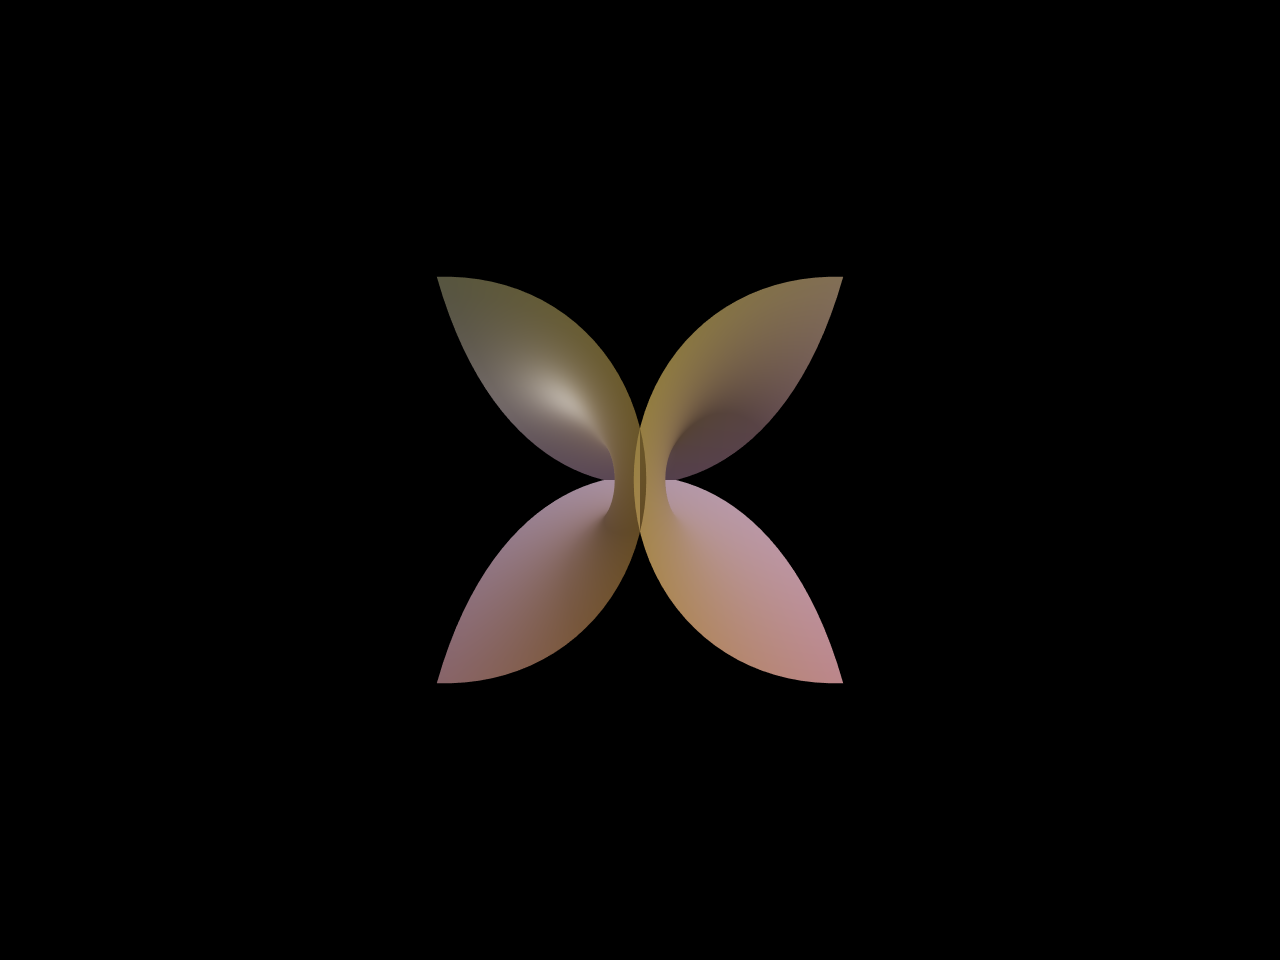
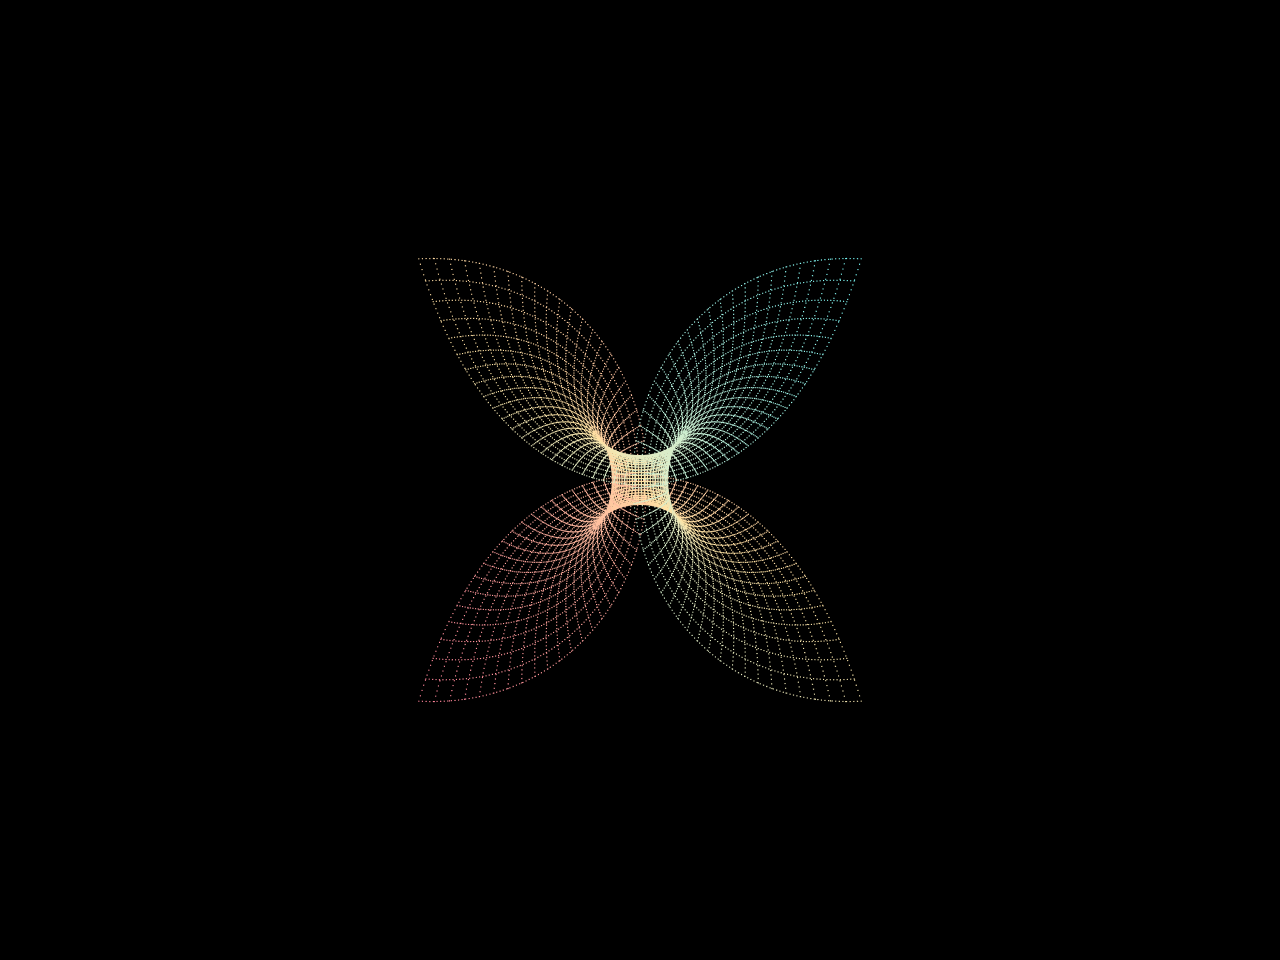
Convert Enneper surface to UV isoline particle wire.

Changed region(s): [[0.3438, 0.2812, 0.6562, 0.7188]]

diff --git a/packages/frontend/src/utils/enneperSurface.ts b/packages/frontend/src/utils/enneperSurface.ts
@@ -1,9 +1,15 @@
 const EPS = 1e-15
+const TARGET_R = 1.7
 
-export const UV_RES = 48
 export const SPAN_MIN = 1.2
 export const SPAN_MAX = 2.5
 export const DEFAULT_SPAN = 1.8
+
+/** Fixed isoline budget (u-curves + v-curves). */
+export const ENNEPER_NU = 48
+export const ENNEPER_NV = 48
+export const ENNEPER_DETAIL = 200
+export const ENNEPER_MAX_POINTS = (ENNEPER_NU + ENNEPER_NV) * ENNEPER_DETAIL
 
 export function clampSpan(span: number): number {
 	return Math.min(SPAN_MAX, Math.max(SPAN_MIN, span))
@@ -20,31 +26,30 @@ export function enneperPoint(u: number, v: number): { x: number; y: number; z: n
 	}
 }
 
-export type EnneperMesh = {
+export type EnneperCloud = {
 	positions: Float32Array
-	indices: Uint32Array
 	colors: Float32Array
+	count: number
 }
 
-function centerAndScale(positions: Float32Array, targetRadius: number) {
-	const vcount = positions.length / 3
-	if (vcount === 0) {
+function centerAndScale(positions: Float32Array, count: number, targetRadius: number) {
+	if (count === 0) {
 		return
 	}
 	let cx = 0
 	let cy = 0
 	let cz = 0
-	for (let i = 0; i < vcount; i++) {
+	for (let i = 0; i < count; i++) {
 		cx += positions[i * 3]
 		cy += positions[i * 3 + 1]
 		cz += positions[i * 3 + 2]
 	}
-	cx /= vcount
-	cy /= vcount
-	cz /= vcount
+	cx /= count
+	cy /= count
+	cz /= count
 
 	let maxR = 0
-	for (let i = 0; i < vcount; i++) {
+	for (let i = 0; i < count; i++) {
 		const x = positions[i * 3] - cx
 		const y = positions[i * 3 + 1] - cy
 		const z = positions[i * 3 + 2] - cz
@@ -60,86 +65,71 @@ function centerAndScale(positions: Float32Array, targetRadius: number) {
 		return
 	}
 	const s = targetRadius / maxR
-	for (let i = 0; i < positions.length; i++) {
+	for (let i = 0; i < count * 3; i++) {
 		positions[i] *= s
 	}
 }
 
-export function buildEnneperMesh(span: number): EnneperMesh {
+/** Coral → amber → teal along UV. */
+function writeUvRibbon(colors: Float32Array, i: number, uN: number, vN: number) {
+	const t = Math.min(1, Math.max(0, 0.55 * uN + 0.45 * vN))
+	if (t < 0.5) {
+		const s = t / 0.5
+		colors[i] = 1
+		colors[i + 1] = 0.22 + 0.55 * s
+		colors[i + 2] = 0.32 + 0.05 * s
+		return
+	}
+	const s = (t - 0.5) / 0.5
+	colors[i] = 1 - 0.82 * s
+	colors[i + 1] = 0.77 + 0.2 * s
+	colors[i + 2] = 0.37 + 0.58 * s
+}
+
+/** Constant-u / constant-v isolines on the Enneper domain. */
+export function sampleEnneperIsolines(
+	nu = ENNEPER_NU,
+	nv = ENNEPER_NV,
+	samples = ENNEPER_DETAIL,
+	span = DEFAULT_SPAN,
+): EnneperCloud {
 	const s = clampSpan(span)
-	const grid = UV_RES
-	const vertsPerSide = grid + 1
-	const vertCount = vertsPerSide * vertsPerSide
-	const positions = new Float32Array(vertCount * 3)
-	const colors = new Float32Array(vertCount * 3)
-	const indices = new Uint32Array(grid * grid * 6)
+	const count = (nu + nv) * samples
+	const positions = new Float32Array(count * 3)
+	const colors = new Float32Array(count * 3)
+	let i = 0
 
-	let minX = Infinity
-	let minY = Infinity
-	let minZ = Infinity
-	let maxX = -Infinity
-	let maxY = -Infinity
-	let maxZ = -Infinity
-
-	for (let iy = 0; iy < vertsPerSide; iy++) {
-		const v = -s + (2 * s * iy) / grid
-		for (let ix = 0; ix < vertsPerSide; ix++) {
-			const u = -s + (2 * s * ix) / grid
+	for (let iu = 0; iu < nu; iu++) {
+		const uN = nu <= 1 ? 0.5 : iu / (nu - 1)
+		const u = -s + 2 * s * uN
+		for (let t = 0; t < samples; t++) {
+			const vN = samples <= 1 ? 0.5 : t / (samples - 1)
+			const v = -s + 2 * s * vN
 			const p = enneperPoint(u, v)
-			const vi = iy * vertsPerSide + ix
-			positions[vi * 3] = p.x
-			positions[vi * 3 + 1] = p.y
-			positions[vi * 3 + 2] = p.z
-			if (p.x < minX) {
-				minX = p.x
-			}
-			if (p.y < minY) {
-				minY = p.y
-			}
-			if (p.z < minZ) {
-				minZ = p.z
-			}
-			if (p.x > maxX) {
-				maxX = p.x
-			}
-			if (p.y > maxY) {
-				maxY = p.y
-			}
-			if (p.z > maxZ) {
-				maxZ = p.z
-			}
+			const i3 = i * 3
+			positions[i3] = p.x
+			positions[i3 + 1] = p.y
+			positions[i3 + 2] = p.z
+			writeUvRibbon(colors, i3, uN, vN)
+			i += 1
+		}
+	}
+	for (let iv = 0; iv < nv; iv++) {
+		const vN = nv <= 1 ? 0.5 : iv / (nv - 1)
+		const v = -s + 2 * s * vN
+		for (let t = 0; t < samples; t++) {
+			const uN = samples <= 1 ? 0.5 : t / (samples - 1)
+			const u = -s + 2 * s * uN
+			const p = enneperPoint(u, v)
+			const i3 = i * 3
+			positions[i3] = p.x
+			positions[i3 + 1] = p.y
+			positions[i3 + 2] = p.z
+			writeUvRibbon(colors, i3, uN, vN)
+			i += 1
 		}
 	}
 
-	const dx = maxX - minX || 1
-	const dy = maxY - minY || 1
-	const dz = maxZ - minZ || 1
-	for (let i = 0; i < positions.length; i += 3) {
-		const nx = (positions[i] - minX) / dx
-		const ny = (positions[i + 1] - minY) / dy
-		const nz = (positions[i + 2] - minZ) / dz
-		colors[i] = 0.72 + 0.22 * nx
-		colors[i + 1] = 0.42 + 0.28 * ny
-		colors[i + 2] = 0.18 + 0.55 * (1 - nz)
-	}
-
-	let t = 0
-	for (let iy = 0; iy < grid; iy++) {
-		for (let ix = 0; ix < grid; ix++) {
-			const a = iy * vertsPerSide + ix
-			const b = a + 1
-			const c = a + vertsPerSide
-			const d = c + 1
-			indices[t] = a
-			indices[t + 1] = c
-			indices[t + 2] = b
-			indices[t + 3] = b
-			indices[t + 4] = c
-			indices[t + 5] = d
-			t += 6
-		}
-	}
-
-	centerAndScale(positions, 1.7)
-	return { positions, indices, colors }
+	centerAndScale(positions, count, TARGET_R)
+	return { positions, colors, count }
 }

diff --git a/packages/frontend/src/pages/misc/enneper_surface.tsx b/packages/frontend/src/pages/misc/enneper_surface.tsx
@@ -1,18 +1,30 @@
 import { BlockMath, InlineMath } from 'react-katex'
-import { useEffect, useMemo } from 'react'
-import { type TDatData, type TDataFromObject } from '../../@types/gui'
+import { useEffect, useMemo, useRef } from 'react'
+import { EDimensions, type TDatData, type TDataFromObject, type TParticleProps } from '../../@types/gui'
 import Base from '../_base'
 import { setDatData, setData } from '../../@store/WebSlice'
 import { useAppDispatch, useAppSelector } from '../../@store/store'
 import { useAnimationState } from '../../hooks/useAnimationState'
 import { isScreenshotMode } from '../../modules/screenshotMode'
-import { buildEnneperMesh, clampSpan, DEFAULT_SPAN, SPAN_MAX, SPAN_MIN } from '../../utils/enneperSurface'
+import {
+	clampSpan,
+	DEFAULT_SPAN,
+	ENNEPER_DETAIL,
+	ENNEPER_MAX_POINTS,
+	ENNEPER_NU,
+	ENNEPER_NV,
+	sampleEnneperIsolines,
+	SPAN_MAX,
+	SPAN_MIN,
+} from '../../utils/enneperSurface'
 
 const EnneperSurface = () => {
 	const dispatch = useAppDispatch()
-	const { data } = useAppSelector(state => state.WebSlice)
+	const { data } = useAppSelector((state) => state.WebSlice)
+	const seeded = useRef(false)
+	const cloudRef = useRef<ReturnType<typeof sampleEnneperIsolines> | null>(null)
 	const { calculateParticlesToDraw, updateProgressUI, checkCompletion } = useAnimationState({
-		baseSpeed: 10000,
+		baseSpeed: 32000,
 	})
 
 	const datData = useMemo(
@@ -30,39 +42,55 @@ const EnneperSurface = () => {
 	useEffect(() => {
 		void dispatch(setDatData(datData))
 		void dispatch(
-			setData(Object.fromEntries(Object.entries(datData.options).map(([key, value]) => [key, value.initialValue]))),
+			setData(
+				Object.fromEntries(
+					Object.entries(datData.options).map(([key, value]) => [key, value.initialValue]),
+				),
+			),
 		)
 	}, [datData, dispatch])
 
 	const span = clampSpan(data.span ?? datData.options.span.initialValue)
-	const mesh = useMemo(() => buildEnneperMesh(span), [span])
+	const cloud = useMemo(
+		() => sampleEnneperIsolines(ENNEPER_NU, ENNEPER_NV, ENNEPER_DETAIL, span),
+		[span],
+	)
+	if (cloudRef.current !== cloud) {
+		cloudRef.current = cloud
+		seeded.current = false
+	}
 
-	const tick = (delta: number) => {
-		const total = mesh.indices.length
-		const toDraw = calculateParticlesToDraw(total, delta)
-		updateProgressUI(toDraw, total)
-		checkCompletion(toDraw, total)
+	const tick: TParticleProps<TData>['tick'] = (positions, colors, _state, delta) => {
+		const next = cloudRef.current
+		if (next && !seeded.current) {
+			positions.set(next.positions)
+			colors.set(next.colors)
+			seeded.current = true
+		}
+		const toDraw = calculateParticlesToDraw(ENNEPER_MAX_POINTS, delta)
+		updateProgressUI(toDraw, ENNEPER_MAX_POINTS)
+		checkCompletion(toDraw, ENNEPER_MAX_POINTS)
 		return toDraw
 	}
 
 	return (
 		<Base<TData>
-			drawMode="mesh"
-			positions={mesh.positions}
-			indices={mesh.indices}
-			colors={mesh.colors}
-			progressTick={tick}
+			dimension={EDimensions.THREE_D}
+			numParticles={ENNEPER_MAX_POINTS}
+			pointSize={1.15}
+			tick={tick}
+			cameraPosition={[0, 0, 3.4]}
 			autoRotate={!isScreenshotMode()}
 			autoRotateSpeed={0.32}
-			cameraPosition={[0, 0, 3.7]}
 		/>
 	)
 }
 
 EnneperSurface.getDescription = () => (
 	<>
-		Enneper’s minimal surface (1864) is a complete immersed minimal surface with polynomial parametrization. The default
-		domain is large enough that the self-intersections read.
+		Enneper’s minimal surface (1864) is a complete immersed minimal surface with a polynomial
+		parametrization. UV isoline particle wire — no lit mesh. Default domain is large enough that the
+		self-intersections read.
 		<br />
 		<br />
 		<strong>Parametrization</strong> on <InlineMath math="u,v \in [-\mathrm{span},\mathrm{span}]" />:
@@ -70,7 +98,8 @@ EnneperSurface.getDescription = () => (
 		<BlockMath math={'y = v - v^3/3 + v u^2'} />
 		<BlockMath math={'z = u^2 - v^2'} />
 		<br />
-		UI <InlineMath math="\mathrm{span}" /> is the |u|,|v| domain. Transport <code>n</code> reveals triangles.
+		UI <InlineMath math="\mathrm{span}" /> is the |u|,|v| domain. Transport <code>n</code> reveals
+		points.
 	</>
 )
 

diff --git a/packages/frontend/src/__tests__/misc/enneper_surface.test.ts b/packages/frontend/src/__tests__/misc/enneper_surface.test.ts
@@ -1,12 +1,12 @@
 import { describe, it, expect } from 'vitest'
 import {
-	buildEnneperMesh,
 	clampSpan,
 	DEFAULT_SPAN,
+	ENNEPER_MAX_POINTS,
 	enneperPoint,
+	sampleEnneperIsolines,
 	SPAN_MAX,
 	SPAN_MIN,
-	UV_RES,
 } from '../../utils/enneperSurface'
 
 describe('enneperPoint', () => {
@@ -35,21 +35,29 @@ describe('enneperPoint', () => {
 	})
 })
 
-describe('buildEnneperMesh', () => {
-	it('builds a finite UV-grid mesh', () => {
-		const mesh = buildEnneperMesh(DEFAULT_SPAN)
-		expect(mesh.positions.length / 3).toBe((UV_RES + 1) * (UV_RES + 1))
-		expect(mesh.indices.length).toBe(UV_RES * UV_RES * 6)
-		expect(mesh.indices.length % 3).toBe(0)
-		expect(mesh.colors.length).toBe(mesh.positions.length)
-		for (let i = 0; i < mesh.positions.length; i++) {
-			expect(Number.isFinite(mesh.positions[i])).toBe(true)
+describe('sampleEnneperIsolines', () => {
+	it('builds a fixed-size UV wire', () => {
+		const cloud = sampleEnneperIsolines()
+		expect(cloud.count).toBe(ENNEPER_MAX_POINTS)
+		expect(cloud.positions.length).toBe(ENNEPER_MAX_POINTS * 3)
+		expect(cloud.colors.length).toBe(cloud.positions.length)
+		for (let i = 0; i < 300; i++) {
+			expect(Number.isFinite(cloud.positions[i])).toBe(true)
 		}
 	})
 
-	it('clamps span', () => {
+	it('clamps span and keeps colour chroma', () => {
 		expect(clampSpan(0)).toBe(SPAN_MIN)
 		expect(clampSpan(9)).toBe(SPAN_MAX)
 		expect(clampSpan(DEFAULT_SPAN)).toBe(DEFAULT_SPAN)
+		const cloud = sampleEnneperIsolines(16, 16, 40, DEFAULT_SPAN)
+		let maxChroma = 0
+		for (let i = 0; i < cloud.count; i++) {
+			const r = cloud.colors[i * 3]
+			const g = cloud.colors[i * 3 + 1]
+			const b = cloud.colors[i * 3 + 2]
+			maxChroma = Math.max(maxChroma, Math.max(r, g, b) - Math.min(r, g, b))
+		}
+		expect(maxChroma).toBeGreaterThan(0.3)
 	})
 })
